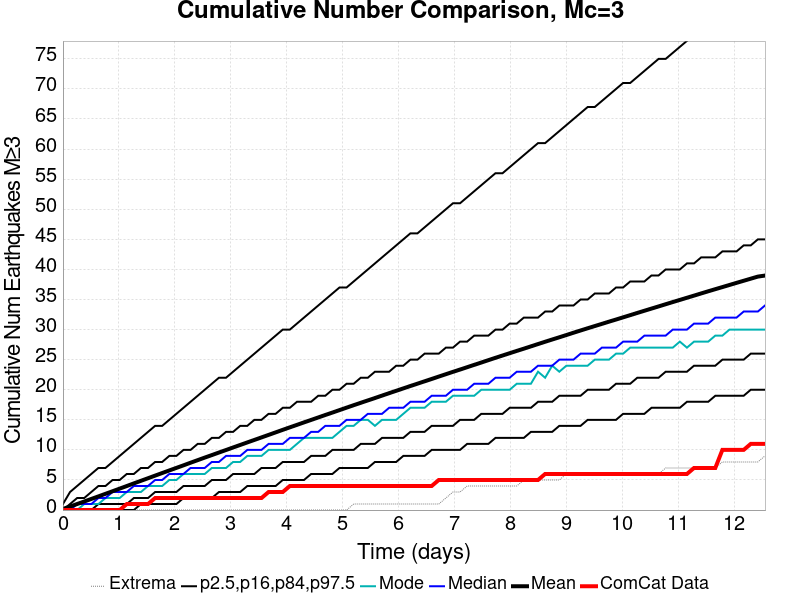
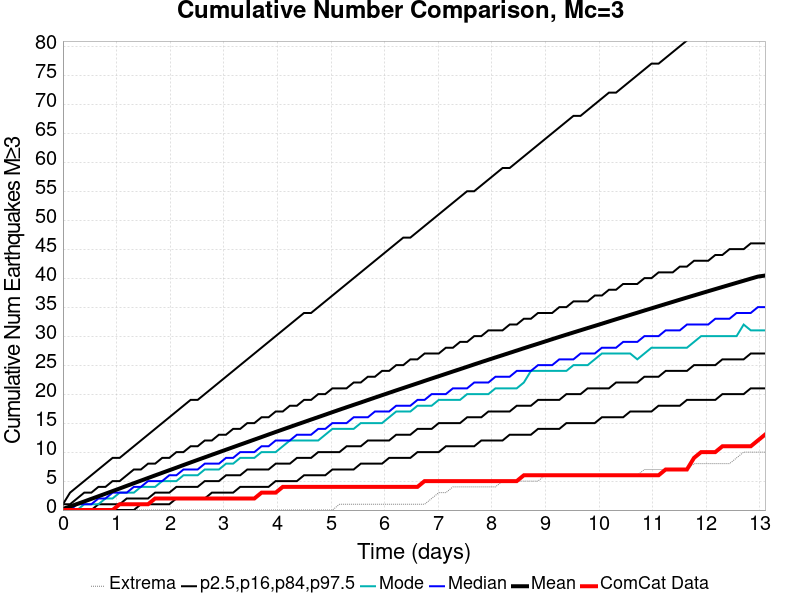
automatic plot and index update from opensha.usc.edu

diff --git a/2019_08_03-ComCatM7p1_ci38457511_28DaysAfter_ShakeMapSurfaces-noSpont-full_td-scale1.14/index.html b/2019_08_03-ComCatM7p1_ci38457511_28DaysAfter_ShakeMapSurfaces-noSpont-full_td-scale1.14/index.html
@@ -762,15 +762,15 @@ img {
 <p><em><a href="#table-of-contents">(top)</a></em></p>
 <table>
 <thead>
-<tr><th></th><th>1 Day</th><th>1 Week</th><th>12.6 Day</th></tr>
+<tr><th></th><th>1 Day</th><th>1 Week</th><th>13.1 Day</th></tr>
 </thead>
 <tbody>
-<tr><td><strong>M≥3</strong></td><td><img src="plots/comcat_compare_mean_1d_m3.png" alt="Map" /></td><td><img src="plots/comcat_compare_mean_1wk_m3.png" alt="Map" /></td><td><img src="plots/comcat_compare_mean_12.6d_m3.png" alt="Map" /></td></tr>
-<tr><td><strong>M≥4</strong></td><td><img src="plots/comcat_compare_mean_1d_m4.png" alt="Map" /></td><td><img src="plots/comcat_compare_mean_1wk_m4.png" alt="Map" /></td><td><img src="plots/comcat_compare_mean_12.6d_m4.png" alt="Map" /></td></tr>
-<tr><td><strong>M≥5</strong></td><td><img src="plots/comcat_compare_mean_1d_m5.png" alt="Map" /></td><td><img src="plots/comcat_compare_mean_1wk_m5.png" alt="Map" /></td><td><img src="plots/comcat_compare_mean_12.6d_m5.png" alt="Map" /></td></tr>
-<tr><td><strong>M≥6</strong></td><td><img src="plots/comcat_compare_mean_1d_m6.png" alt="Map" /></td><td><img src="plots/comcat_compare_mean_1wk_m6.png" alt="Map" /></td><td><img src="plots/comcat_compare_mean_12.6d_m6.png" alt="Map" /></td></tr>
-<tr><td><strong>M≥7</strong></td><td><img src="plots/comcat_compare_mean_1d_m7.png" alt="Map" /></td><td><img src="plots/comcat_compare_mean_1wk_m7.png" alt="Map" /></td><td><img src="plots/comcat_compare_mean_12.6d_m7.png" alt="Map" /></td></tr>
-<tr><td><strong>M≥8</strong></td><td><img src="plots/comcat_compare_mean_1d_m8.png" alt="Map" /></td><td><img src="plots/comcat_compare_mean_1wk_m8.png" alt="Map" /></td><td><img src="plots/comcat_compare_mean_12.6d_m8.png" alt="Map" /></td></tr>
+<tr><td><strong>M≥3</strong></td><td><img src="plots/comcat_compare_mean_1d_m3.png" alt="Map" /></td><td><img src="plots/comcat_compare_mean_1wk_m3.png" alt="Map" /></td><td><img src="plots/comcat_compare_mean_13.1d_m3.png" alt="Map" /></td></tr>
+<tr><td><strong>M≥4</strong></td><td><img src="plots/comcat_compare_mean_1d_m4.png" alt="Map" /></td><td><img src="plots/comcat_compare_mean_1wk_m4.png" alt="Map" /></td><td><img src="plots/comcat_compare_mean_13.1d_m4.png" alt="Map" /></td></tr>
+<tr><td><strong>M≥5</strong></td><td><img src="plots/comcat_compare_mean_1d_m5.png" alt="Map" /></td><td><img src="plots/comcat_compare_mean_1wk_m5.png" alt="Map" /></td><td><img src="plots/comcat_compare_mean_13.1d_m5.png" alt="Map" /></td></tr>
+<tr><td><strong>M≥6</strong></td><td><img src="plots/comcat_compare_mean_1d_m6.png" alt="Map" /></td><td><img src="plots/comcat_compare_mean_1wk_m6.png" alt="Map" /></td><td><img src="plots/comcat_compare_mean_13.1d_m6.png" alt="Map" /></td></tr>
+<tr><td><strong>M≥7</strong></td><td><img src="plots/comcat_compare_mean_1d_m7.png" alt="Map" /></td><td><img src="plots/comcat_compare_mean_1wk_m7.png" alt="Map" /></td><td><img src="plots/comcat_compare_mean_13.1d_m7.png" alt="Map" /></td></tr>
+<tr><td><strong>M≥8</strong></td><td><img src="plots/comcat_compare_mean_1d_m8.png" alt="Map" /></td><td><img src="plots/comcat_compare_mean_1wk_m8.png" alt="Map" /></td><td><img src="plots/comcat_compare_mean_13.1d_m8.png" alt="Map" /></td></tr>
 </tbody>
 </table>
 <h3 id="comcat-depth-distribution">ComCat Depth Distribution</h3>

diff --git a/2019_08_03-ComCatM7p1_ci38457511_28DaysAfter_ShakeMapSurfaces-noSpont-full_td-scale1.14/README.md b/2019_08_03-ComCatM7p1_ci38457511_28DaysAfter_ShakeMapSurfaces-noSpont-full_td-scale1.14/README.md
@@ -704,14 +704,14 @@ These plots compare simulated sequences with data from ComCat. All plots only co
 ### ComCat Mean Spatial Distribution
 *[(top)](#table-of-contents)*
 
-|  | 1 Day | 1 Week | 12.6 Day |
+|  | 1 Day | 1 Week | 13.1 Day |
 |-----|-----|-----|-----|
-| **M≥3** | ![Map](plots/comcat_compare_mean_1d_m3.png) | ![Map](plots/comcat_compare_mean_1wk_m3.png) | ![Map](plots/comcat_compare_mean_12.6d_m3.png) |
-| **M≥4** | ![Map](plots/comcat_compare_mean_1d_m4.png) | ![Map](plots/comcat_compare_mean_1wk_m4.png) | ![Map](plots/comcat_compare_mean_12.6d_m4.png) |
-| **M≥5** | ![Map](plots/comcat_compare_mean_1d_m5.png) | ![Map](plots/comcat_compare_mean_1wk_m5.png) | ![Map](plots/comcat_compare_mean_12.6d_m5.png) |
-| **M≥6** | ![Map](plots/comcat_compare_mean_1d_m6.png) | ![Map](plots/comcat_compare_mean_1wk_m6.png) | ![Map](plots/comcat_compare_mean_12.6d_m6.png) |
-| **M≥7** | ![Map](plots/comcat_compare_mean_1d_m7.png) | ![Map](plots/comcat_compare_mean_1wk_m7.png) | ![Map](plots/comcat_compare_mean_12.6d_m7.png) |
-| **M≥8** | ![Map](plots/comcat_compare_mean_1d_m8.png) | ![Map](plots/comcat_compare_mean_1wk_m8.png) | ![Map](plots/comcat_compare_mean_12.6d_m8.png) |
+| **M≥3** | ![Map](plots/comcat_compare_mean_1d_m3.png) | ![Map](plots/comcat_compare_mean_1wk_m3.png) | ![Map](plots/comcat_compare_mean_13.1d_m3.png) |
+| **M≥4** | ![Map](plots/comcat_compare_mean_1d_m4.png) | ![Map](plots/comcat_compare_mean_1wk_m4.png) | ![Map](plots/comcat_compare_mean_13.1d_m4.png) |
+| **M≥5** | ![Map](plots/comcat_compare_mean_1d_m5.png) | ![Map](plots/comcat_compare_mean_1wk_m5.png) | ![Map](plots/comcat_compare_mean_13.1d_m5.png) |
+| **M≥6** | ![Map](plots/comcat_compare_mean_1d_m6.png) | ![Map](plots/comcat_compare_mean_1wk_m6.png) | ![Map](plots/comcat_compare_mean_13.1d_m6.png) |
+| **M≥7** | ![Map](plots/comcat_compare_mean_1d_m7.png) | ![Map](plots/comcat_compare_mean_1wk_m7.png) | ![Map](plots/comcat_compare_mean_13.1d_m7.png) |
+| **M≥8** | ![Map](plots/comcat_compare_mean_1d_m8.png) | ![Map](plots/comcat_compare_mean_1wk_m8.png) | ![Map](plots/comcat_compare_mean_13.1d_m8.png) |
 
 ### ComCat Depth Distribution
 *[(top)](#table-of-contents)*
